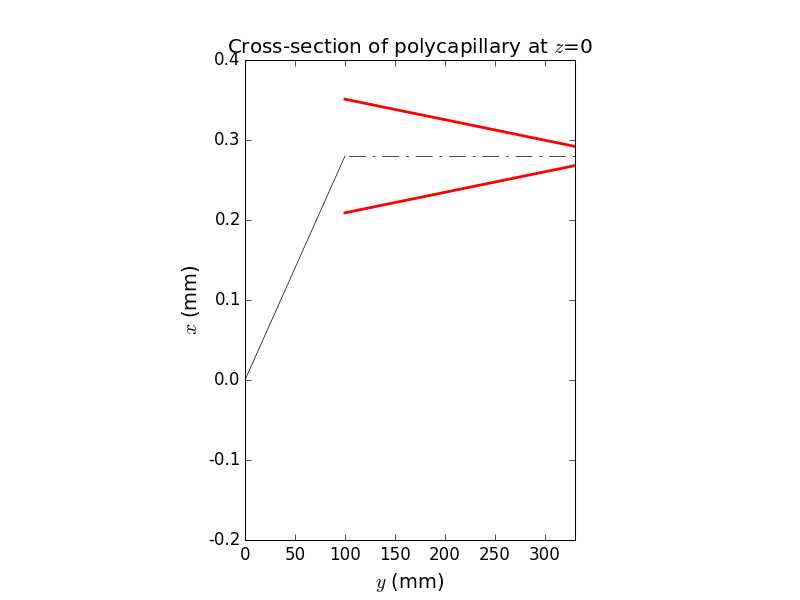
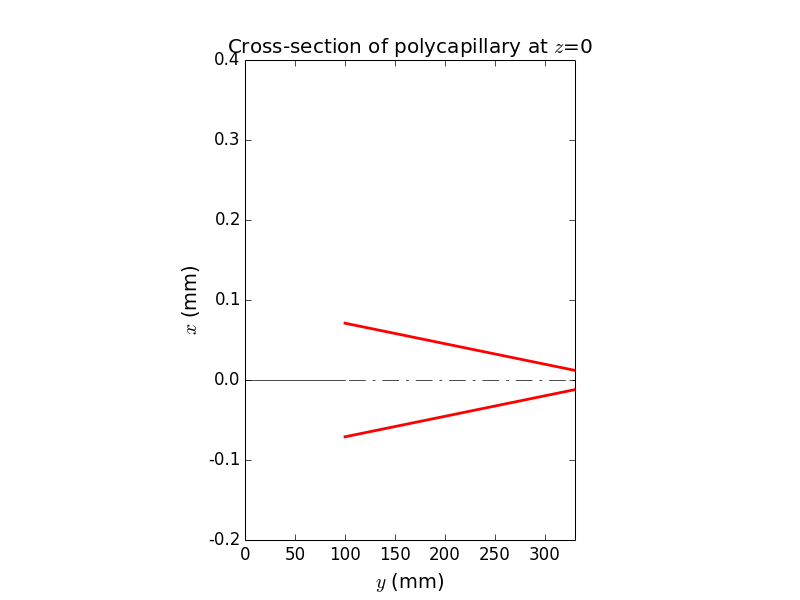
Connical centered properly, clear multiple rings

diff --git a/StraightCapillary.py b/StraightCapillary.py
@@ -47,7 +47,7 @@ class StraightCapillary(roe.OE):
         s0 = self.f - self.rSample * np.cos(self.entranceAlpha)
         self.a0 = -np.tan(self.entranceAlpha) / 2 / s0
         self.b0 = 0.5*self.rSample * np.sin(self.entranceAlpha) - self.a0 * s0**2
-        self.b0 = 0.28
+        self.b0 = 0.0
         self.s0 = s0
         self.ar = (self.r0out-self.r0in) / s0
         self.br = self.r0in
